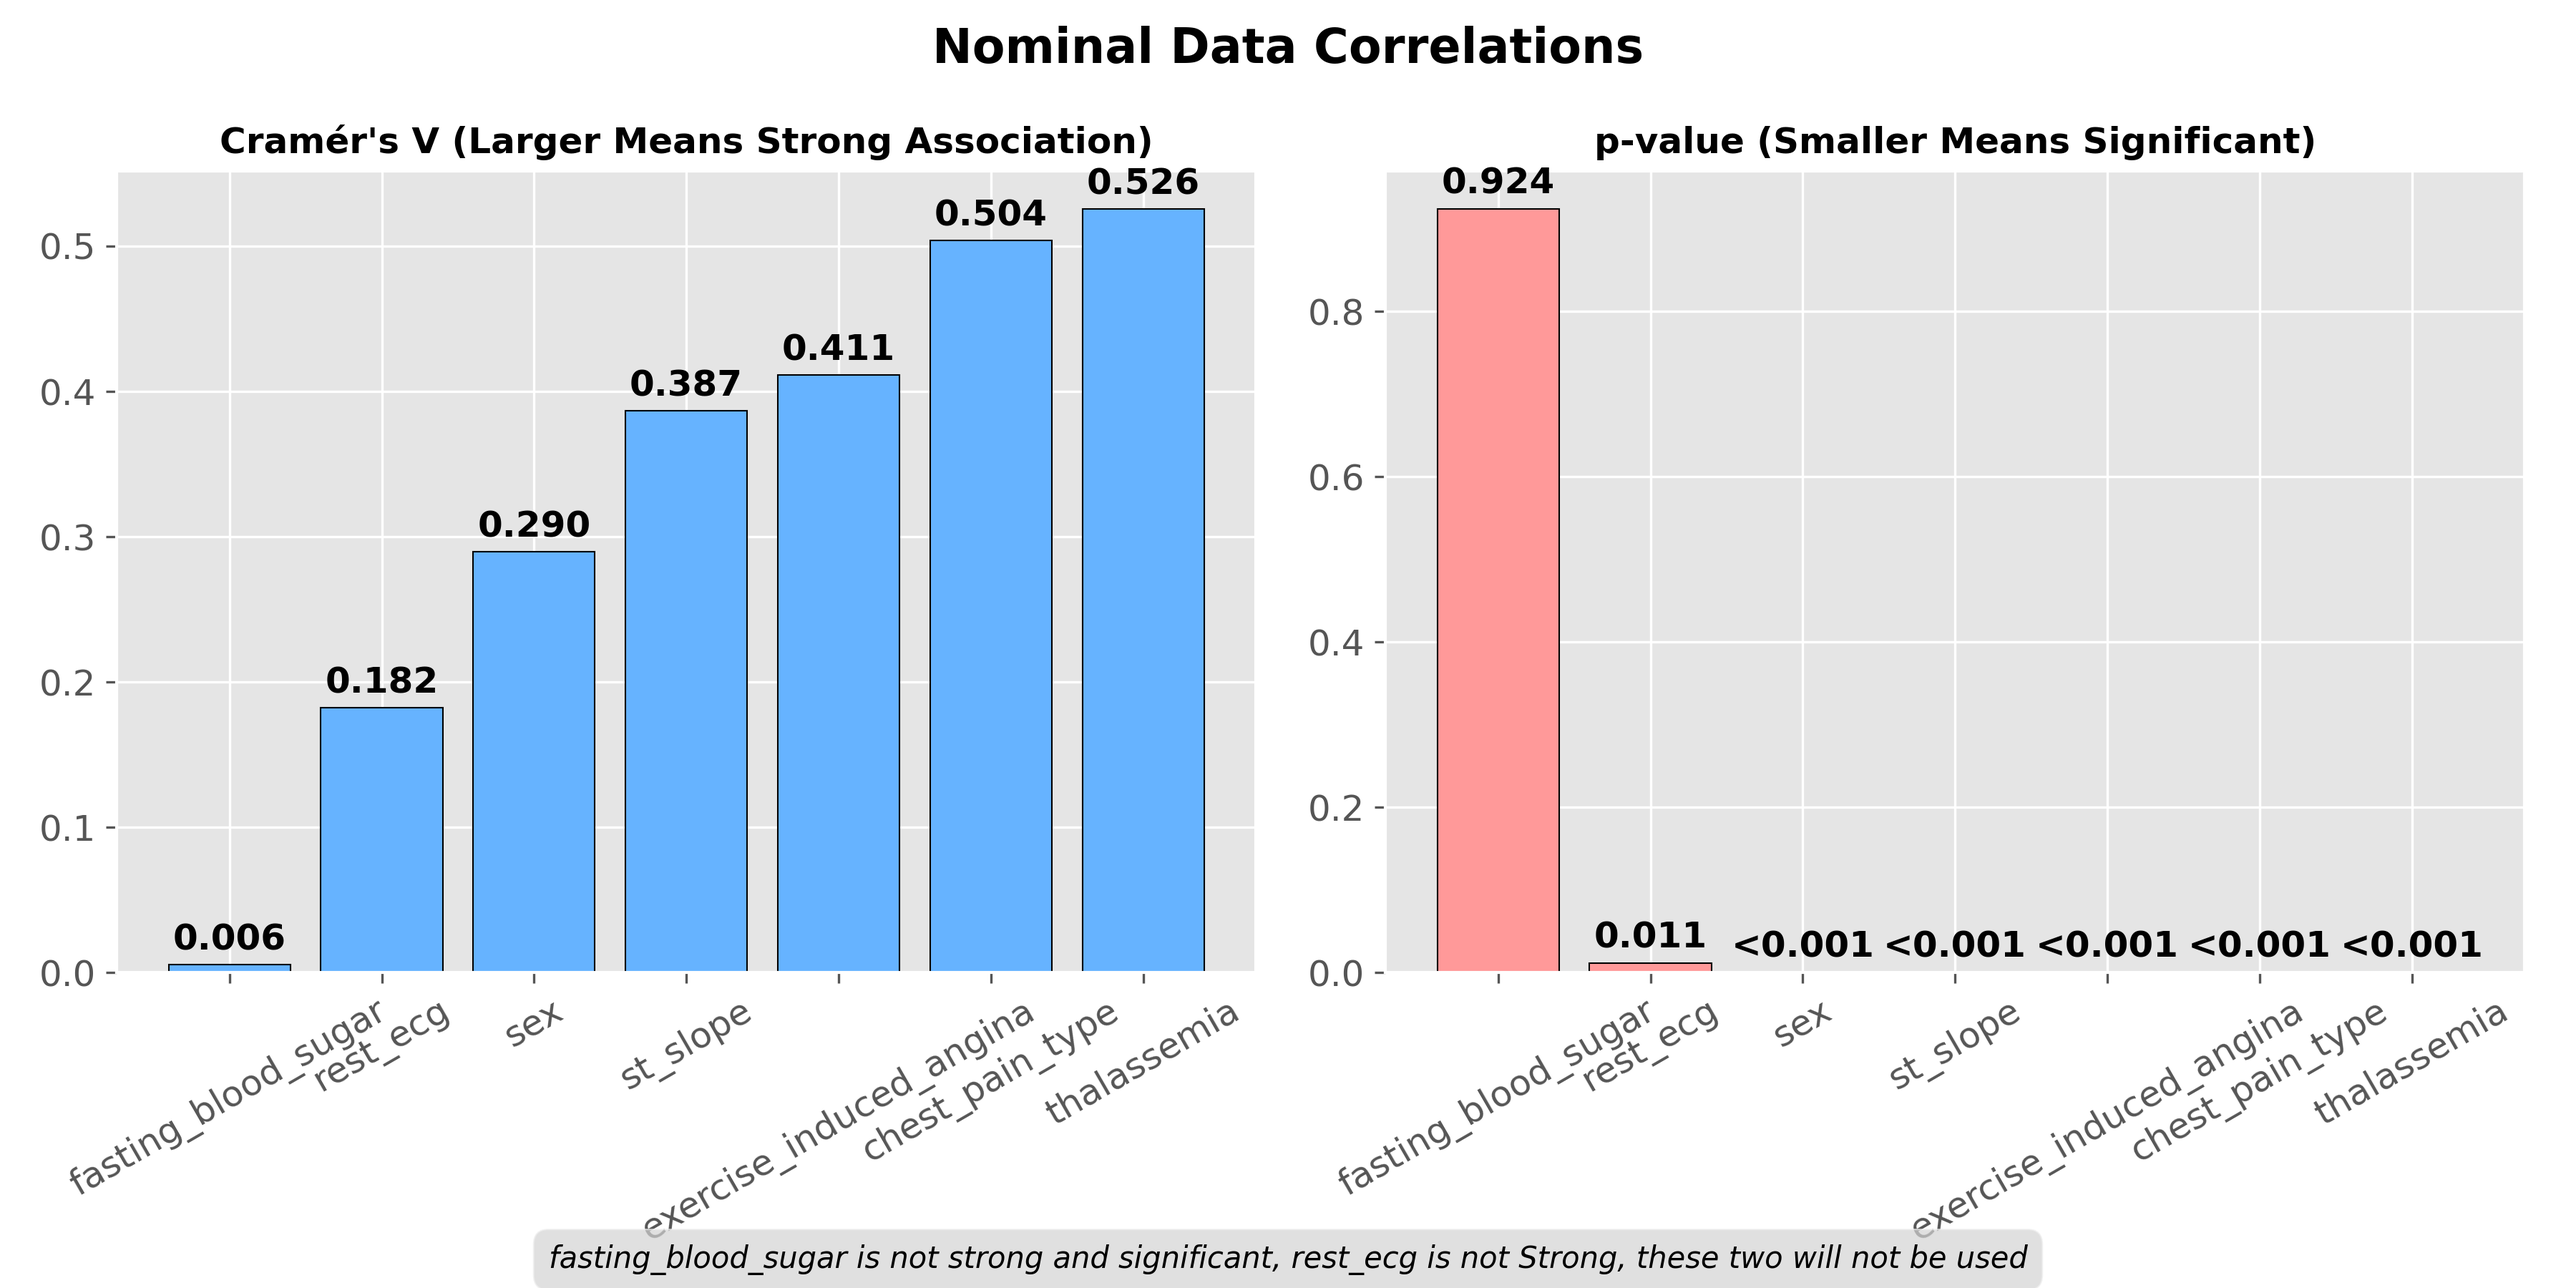
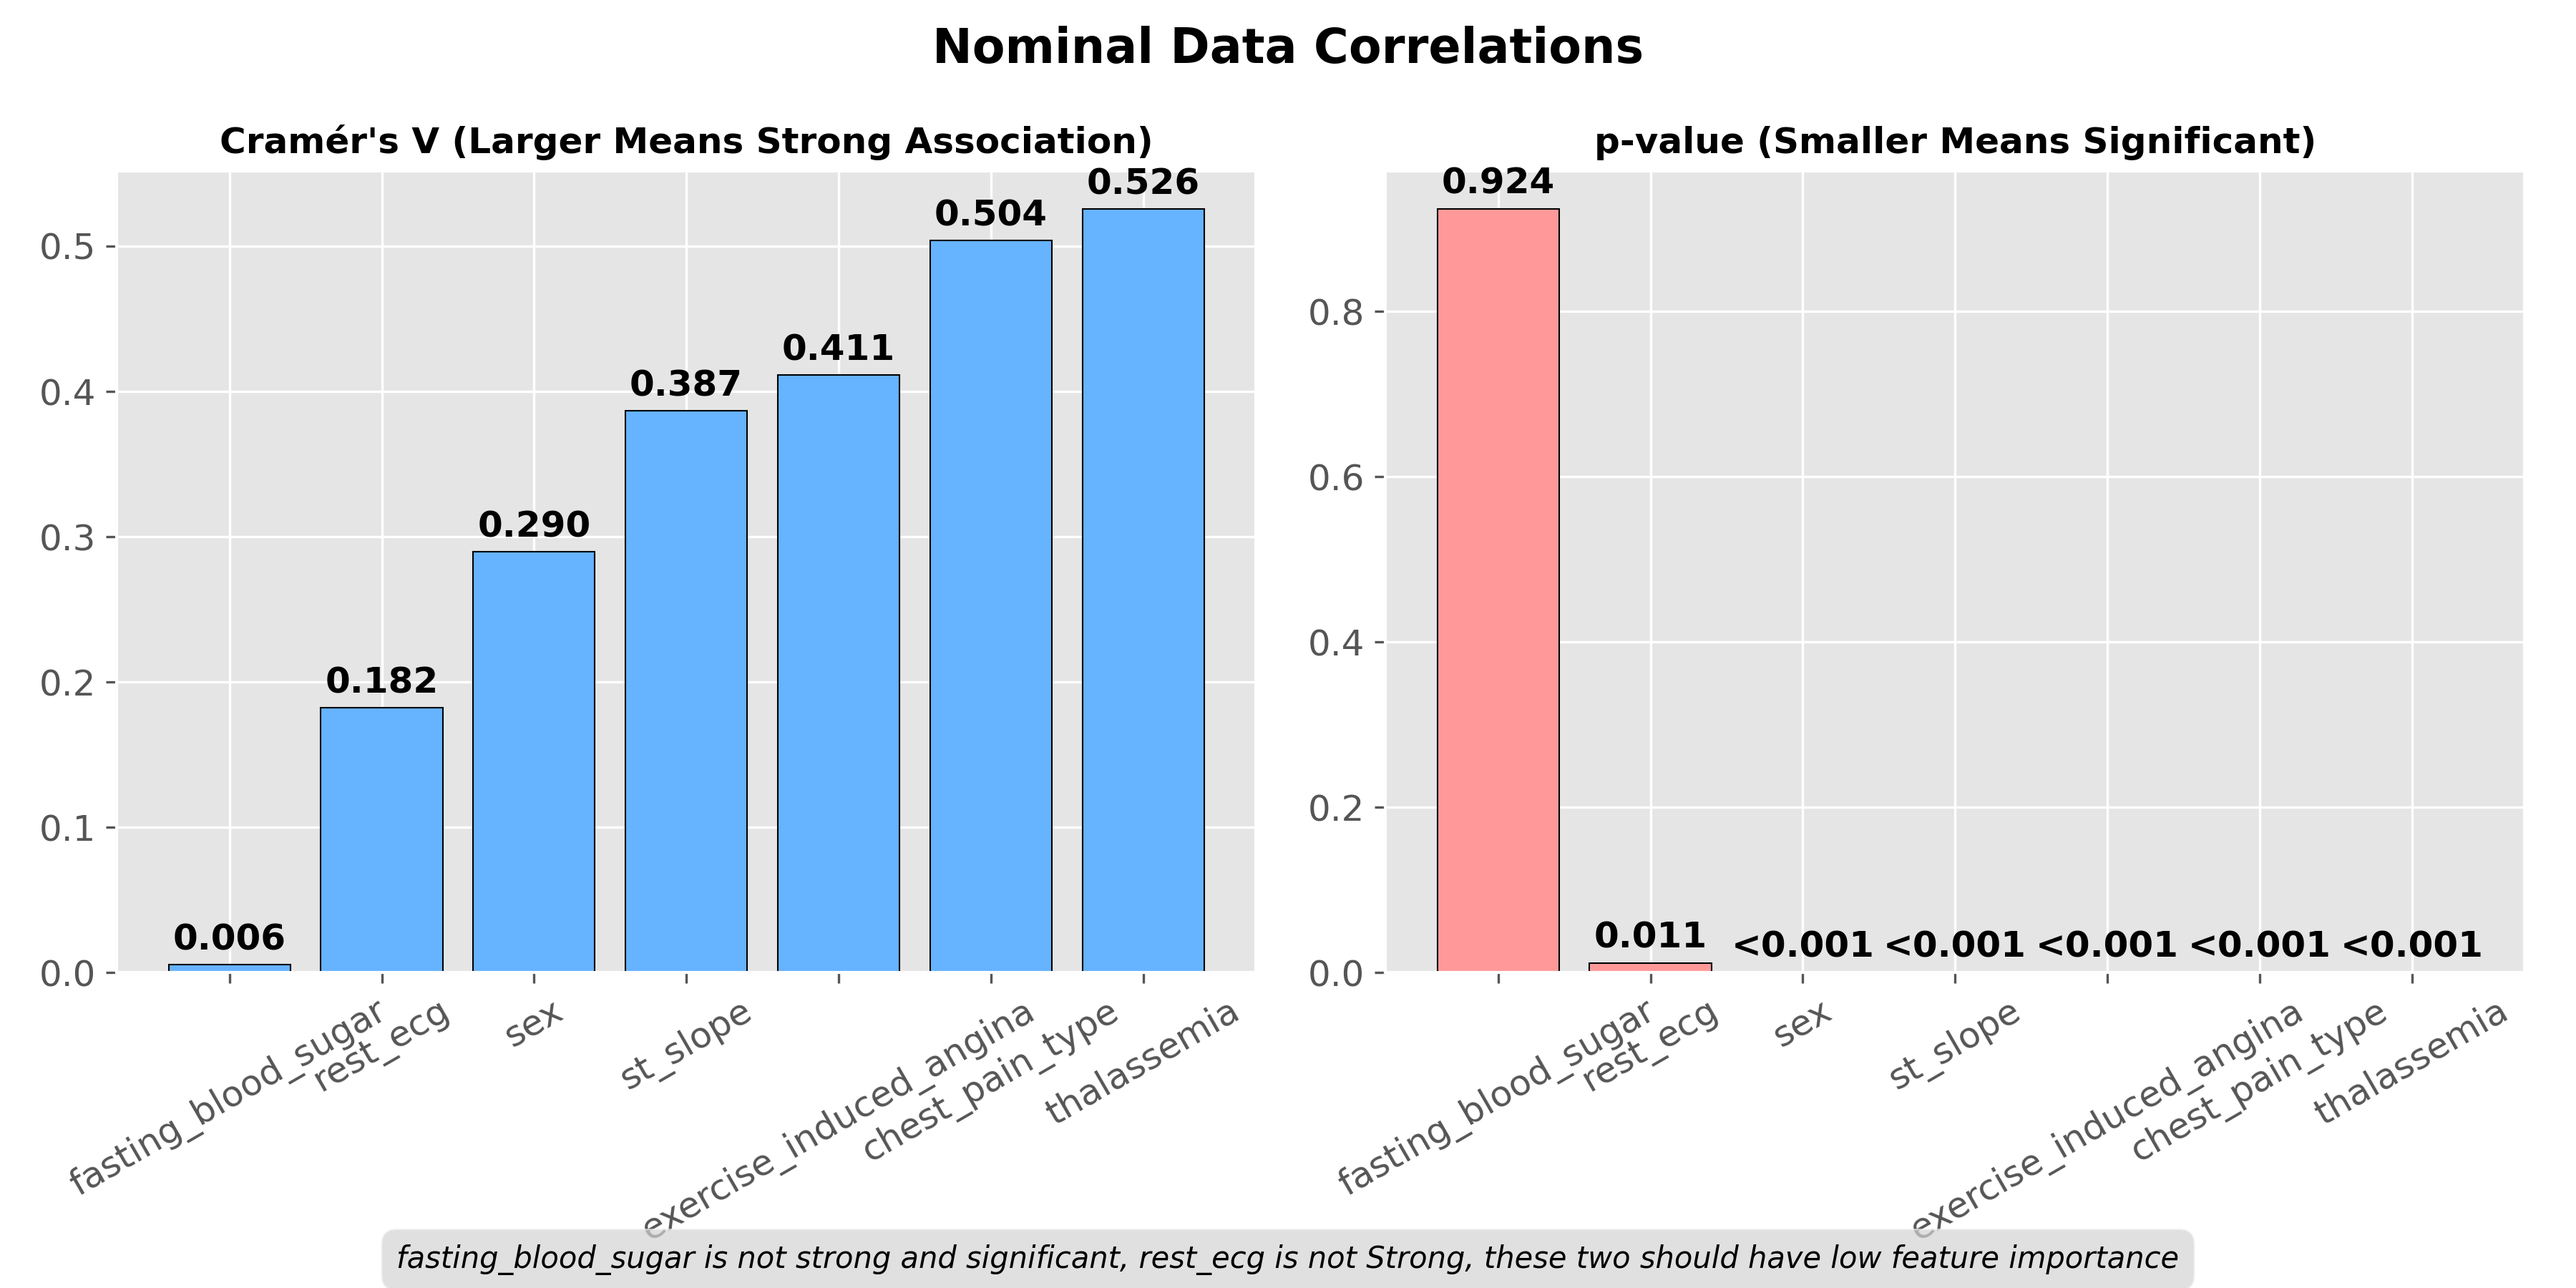
Model Training Finished

Changed region(s): [[0.1244, 0.9333, 0.8711, 1.0]]

diff --git a/Training.py b/Training.py
@@ -1,0 +1,114 @@
+import joblib
+
+from sklearn.model_selection import train_test_split
+from sklearn.preprocessing import StandardScaler
+from sklearn.linear_model import LogisticRegression
+from sklearn.ensemble import RandomForestClassifier, GradientBoostingClassifier
+from sklearn.svm import SVC
+from sklearn.neighbors import KNeighborsClassifier
+from sklearn.naive_bayes import GaussianNB
+from sklearn.tree import DecisionTreeClassifier
+from sklearn.neural_network import MLPClassifier
+from sklearn.metrics import accuracy_score, confusion_matrix, classification_report
+
+from Preprocessing import * 
+
+X = df.drop("target", axis=1)
+y = df["target"]
+
+# One-hot encode categorical variables (nominal variables to 0, 1, 2 ...)
+X_encoded = pd.get_dummies(X, drop_first=True)
+
+# 20% of data set to test set
+X_train, X_test, y_train, y_test = train_test_split(
+    X_encoded, y, test_size=0.2, random_state=42, stratify=y
+)
+
+# Scaling
+scaler = StandardScaler()
+X_train_scaled = scaler.fit_transform(X_train)
+X_test_scaled = scaler.transform(X_test)
+
+
+models = {
+    "Logistic Regression": LogisticRegression(random_state=42, max_iter=1000),
+    "Random Forest": RandomForestClassifier(random_state=42, n_estimators=100),
+    "SVM": SVC(random_state=42, probability=True),
+    "KNN": KNeighborsClassifier(n_neighbors=5),
+    "Naive Bayes": GaussianNB(),
+    "Decision Tree": DecisionTreeClassifier(random_state=42),
+    "Gradient Boosting": GradientBoostingClassifier(random_state=42),
+    "MLP": MLPClassifier(random_state=42, max_iter=1000),
+}
+
+
+# Train
+results = {}
+trained_models = {}
+
+for name, model in models.items():
+    # Use scaled data only for models that need it
+    if name in ["Random Forest", "Decision Tree", "Gradient Boosting", "Naive Bayes"]:
+        model.fit(X_train, y_train)
+        y_pred = model.predict(X_test)
+    else:
+        model.fit(X_train_scaled, y_train)
+        y_pred = model.predict(X_test_scaled)
+    
+    acc = accuracy_score(y_test, y_pred)
+    results[name] = acc
+    trained_models[name] = model
+    
+    print(f"\n{name} Results:")
+    print("=" * 50)
+    print(f"Accuracy: {acc:.4f}")
+    print("\nConfusion Matrix:")
+    print(confusion_matrix(y_test, y_pred))
+    print("\nClassification Report:")
+    print(classification_report(y_test, y_pred))
+
+
+# Feature Importance (Random Forest)
+rf = trained_models["Random Forest"]
+feature_importance = pd.DataFrame({
+    "feature": X_encoded.columns,
+    "importance": rf.feature_importances_,
+}).sort_values("importance", ascending=False)
+
+plt.figure(figsize=(12, 8))
+sns.barplot(x="importance", y="feature", data=feature_importance.head(20))
+plt.title("Feature Importance - Random Forest", fontsize=16, fontweight="bold")
+plt.xlabel("Importance", fontsize=12)
+plt.ylabel("Feature", fontsize=12)
+plt.tight_layout()
+plt.savefig(os.path.join("Model_Results", "Feature_Importance.png"),
+            dpi=300, bbox_inches="tight")
+plt.close()
+
+
+# Model Comparison Plot
+sorted_results = dict(sorted(results.items(), key=lambda x: x[1], reverse=True))
+plt.figure(figsize=(12, 6))
+sns.barplot(x=list(sorted_results.keys()), y=list(sorted_results.values()))
+plt.xticks(rotation=30)
+plt.title("Model Comparison: Accuracy", fontsize=16, fontweight="bold")
+plt.ylabel("Accuracy", fontsize=12)
+plt.ylim(0, 1)
+
+for i, acc in enumerate(sorted_results.values()):
+    plt.text(i, acc + 0.01, f"{acc:.4f}", ha="center", va="bottom", fontweight="bold")
+
+plt.tight_layout()
+plt.savefig(os.path.join("Model_Results", "All_Model_Comparison.png"),
+            dpi=300, bbox_inches="tight")
+plt.close()
+
+
+# Save Best Model
+best_model_name = max(results, key=results.get)
+best_model = trained_models[best_model_name]
+
+joblib.dump(best_model, os.path.join("Model_Results", "best_model.pkl"))
+joblib.dump(scaler, os.path.join("Model_Results", "scaler.pkl"))
+
+print(f"\nBest model ({best_model_name}) and scaler saved to Model_Results folder")

diff --git a/Other_Visualization.py b/Other_Visualization.py
@@ -80,7 +80,7 @@ for i, p_val in enumerate(df_p_sorted['p-value']):
     
 fig.suptitle('Nominal Data Correlations', fontsize=16, fontweight='bold')
 
-comment_text = "fasting_blood_sugar is not strong and significant, rest_ecg is not Strong, these two will not be used"
+comment_text = "fasting_blood_sugar is not strong and significant, rest_ecg is not Strong, these two should have low feature importance"
 fig.text(0.5, 0.01, comment_text, ha='center', va='bottom', fontsize=10, 
          style='italic', wrap=True, bbox=dict(boxstyle="round,pad=0.5", 
          facecolor="lightgray", alpha=0.7))

diff --git a/Preprocessing.py b/Preprocessing.py
@@ -5,7 +5,7 @@ from config import *
 df = pd.read_csv('Heart_disease_statlog.csv')
 
 
-# extend abbreviation of the attributes
+# expand abbreviation of the attributes
 df.columns = ['age', 'sex', 'chest_pain_type', 'resting_blood_pressure', 'cholesterol',
               'fasting_blood_sugar', 'rest_ecg', 'max_heart_rate_achieved',
               'exercise_induced_angina', 'st_depression', 'st_slope','ca','thalassemia','target']
